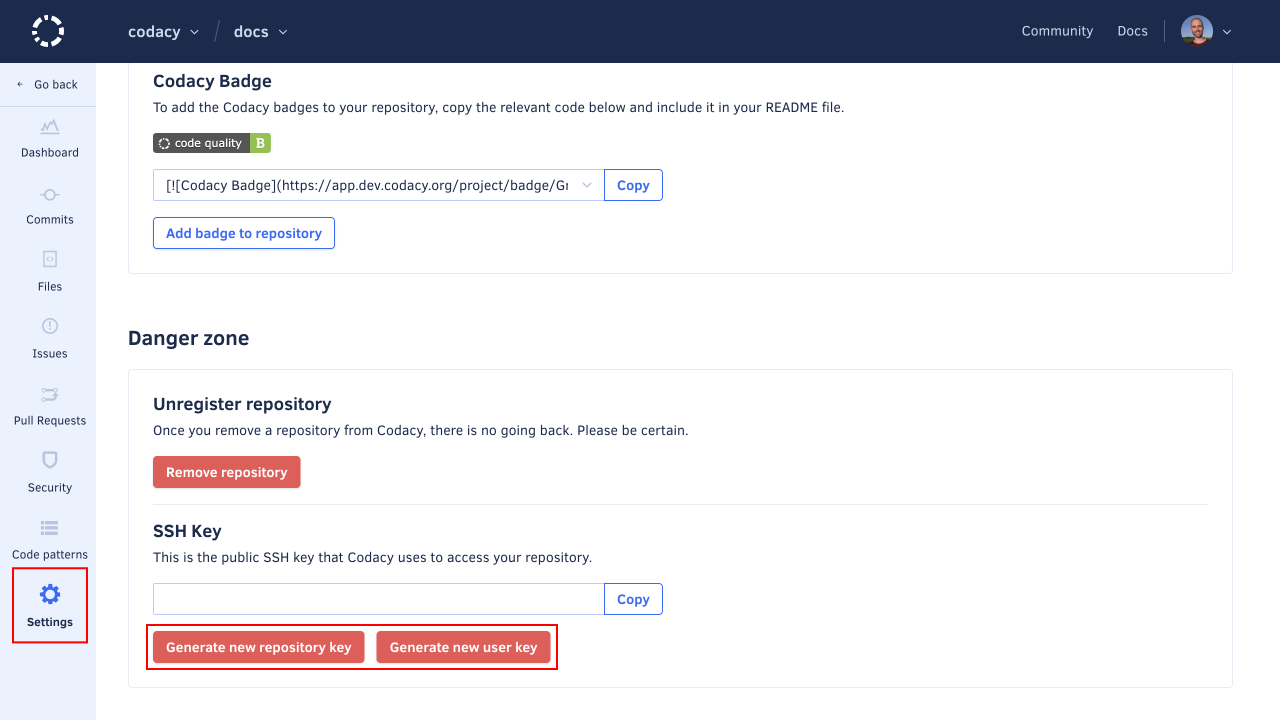
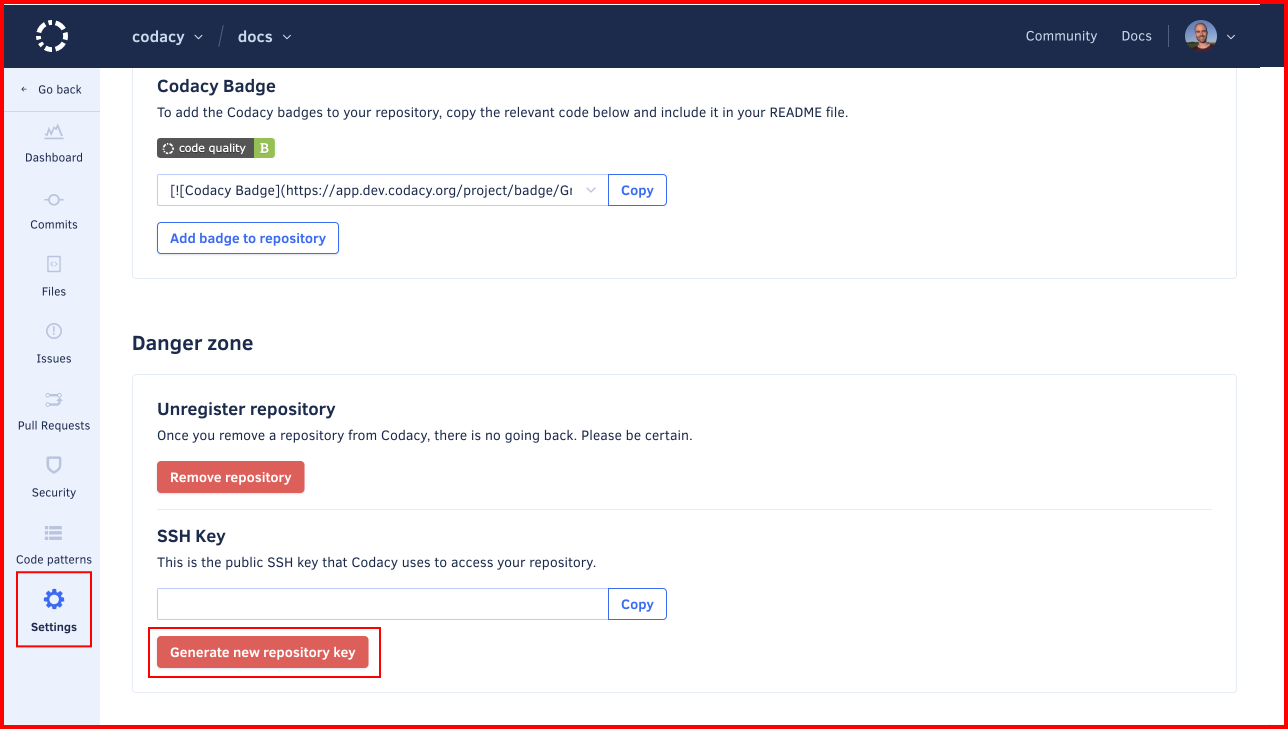
clean: Remove submodules details that are repeated on submodules page; Moved SSH keys introduction to the corresponding section

diff --git a/docs/faq/troubleshooting/we-no-longer-have-access-to-this-repository.md b/docs/faq/troubleshooting/we-no-longer-have-access-to-this-repository.md
@@ -4,12 +4,7 @@ description: Troubleshoot and fix issues that prevent Codacy from cloning your p
 
 # We no longer have access to this repository, check your SSH keys
 
-Codacy uses SSH keys to clone your private repositories. Depending on the level of access that the user configuring the repository on Codacy has on the remote Git provider, an SSH key can be added either:
-
--   Directly to the repository itself, if the user has permissions to add SSH keys to the repository
--   To the user account, if the user only has read or commit permissions on the repository
-
-For this reason, some changes on your Git provider can prevent Codacy from cloning your private repository. When this happens, Codacy displays the error message "We no longer have access to this repository" on the Repository Dashboard page.
+Some changes on your Git provider can prevent Codacy from cloning your private repository. When this happens, Codacy displays the error message "We no longer have access to this repository" on the Repository Dashboard page.
 
 ## The repository was renamed or moved
 
@@ -22,17 +17,20 @@ If you renamed the repository or moved it to a different account on the Git prov
 
 !!! info "This section applies only to GitLab and Bitbucket"
 
+Codacy uses SSH keys to clone your private repositories. Depending on the level of access that the user configuring the repository on Codacy has on the remote Git provider, an SSH key can be added either:
+
+-   Directly to the repository itself, if the user has permissions to add SSH keys to the repository
+-   To the user account, if the user only has read or commit permissions on the repository
+
 If the user that initially configured the repository on Codacy was using a user account SSH key but no longer has access to the repository on GitLab or Bitbucket:
 
 1.  On Codacy, open your **Repository Settings**, tab **General**.
-1.  Click the button **Generate New Repository Key** (recommended) or **Generate New User Key**:
+1.  Click the button **Generate New Repository Key** to add a new SSH key to your repository deployment keys.
 
-    **Generate New Repository Key** is the recommended option. It will add a new SSH key to your repository deployment keys. However, this is only possible if the user configuring the integration with the remote Git provider has permissions to add keys to the repository. Otherwise, this operation will fail. Alternatively, you can also do this process manually by copying the SSH key.
+    This is only possible if the user configuring the integration with the remote Git provider has administrator access to the repository. Otherwise, this operation will fail. Alternatively, you can do this process manually by copying the SSH key.
 
-    **Generate New User Key** should only be used if [your repository is using submodules on Codacy](../../repositories-configure/using-submodules.md). When you're using submodules, Codacy needs to clone additional repositories it has no access to. Since there is no way of identifying the submodules of a repository before cloning the repository, Codacy adds the SSH keys to the user account so that it has access to the same repositories as the user.
-
-    !!! important
-        **If you're using Bitbucket Cloud**, you must manually add the SSH key on your [user account](https://bitbucket.org/account/settings/ssh-keys/).
+    !!! note
+        If [your repository is using submodules on Codacy](../../repositories-configure/using-submodules.md), add a new SSH user key to your git provider account instead.
 
     ![Generate new key](images/we-no-longer-have-access-to-this-repository-new-key.png)
 
